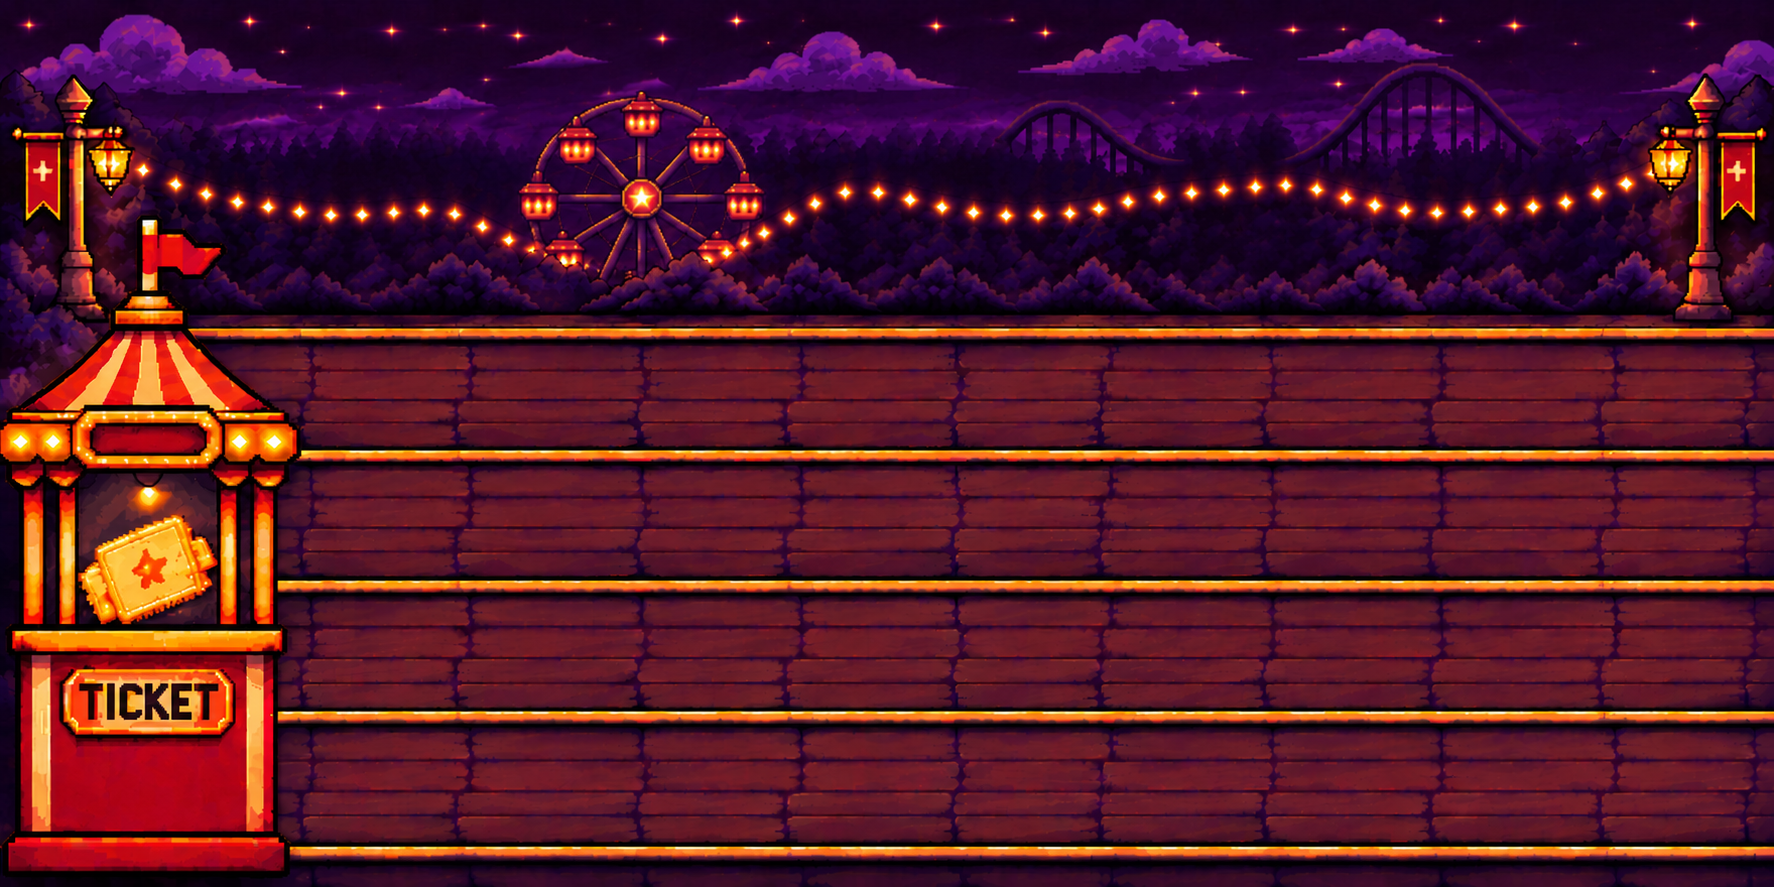
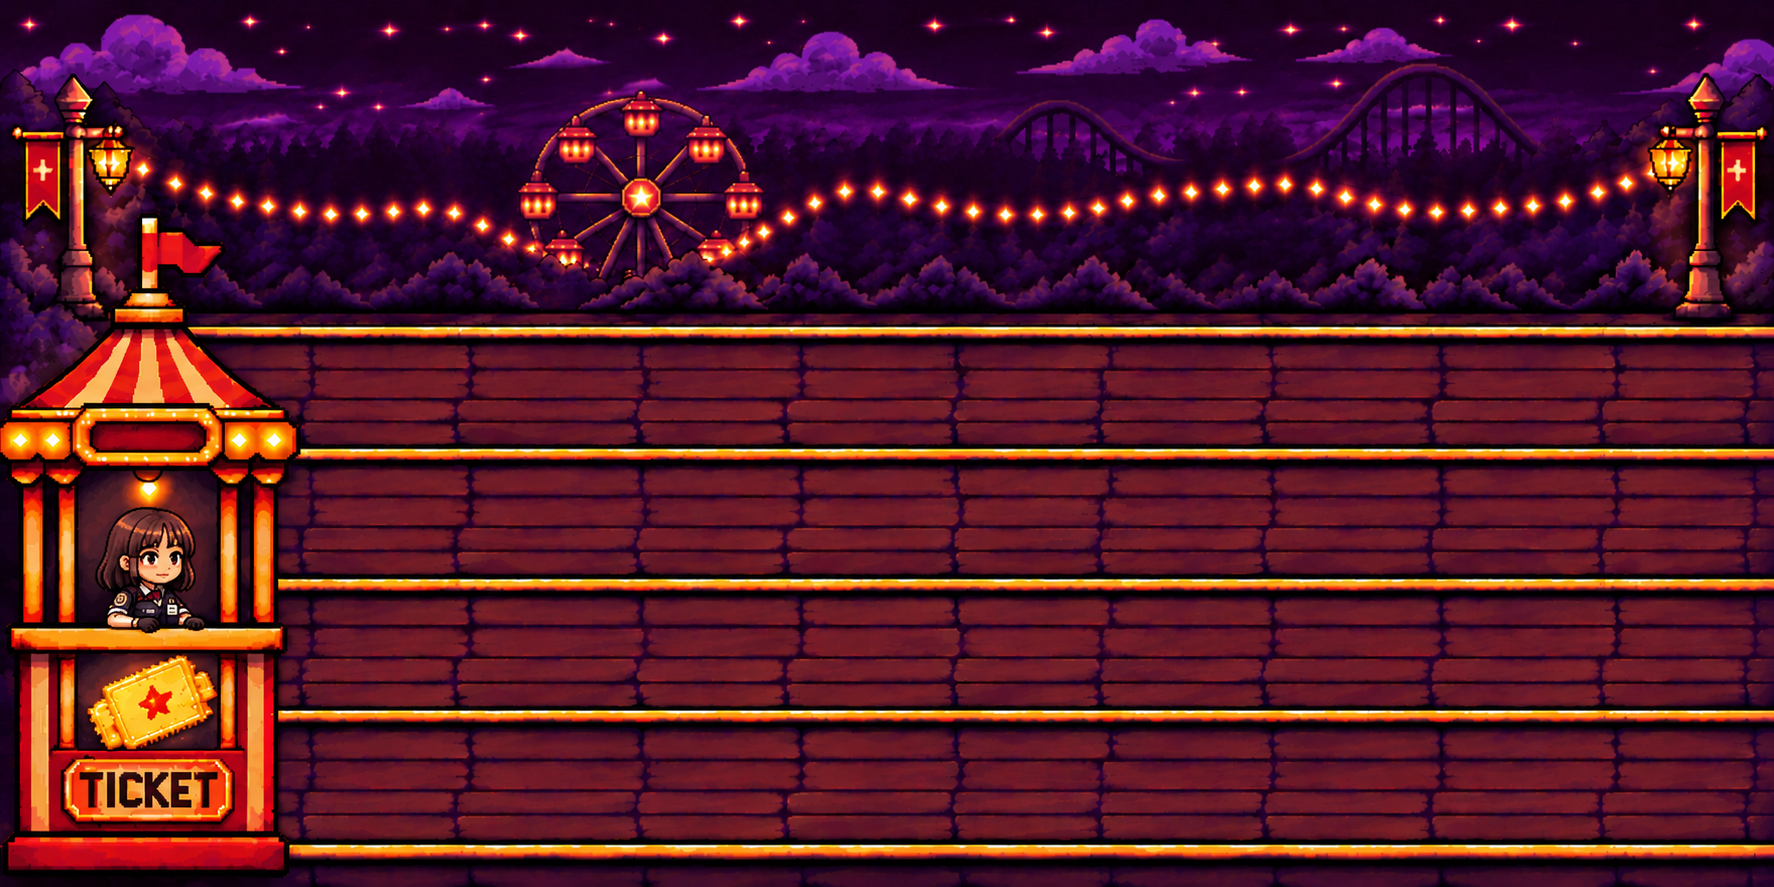
characters

diff --git a/src/characters/CharacterDraw.cpp b/src/characters/CharacterDraw.cpp
@@ -11,42 +11,102 @@ static unsigned int enemyAttackTexture [3]= {0};
 
 static unsigned int playerWalkTexture[3] = { 0 }; //unsigned bec el lload texture returns it
 static unsigned int playerAttackTexture[3] = { 0 };
+static unsigned int playerJumpTexture[2]={};
+static unsigned int playerDuckTexture[2]={};
+
+static unsigned int sparkTexture = 0;
+static unsigned int clownBallTexture = 0;
 
 void drawMirrorGuard(float x, float y, float time, AnimState state, float stateTime, float healthFrac) {
-   
-    unsigned int tex = (state == ATTACK) ? playerAttackTexture[MIRROR_GUARD] : playerWalkTexture[MIRROR_GUARD];
-    float t=(state==ATTACK)?stateTime:time;//time da 3ady
- if(tex==0){
-        drawRect(x, y + 40, 40, 80, 0, damageTint(PLACEHOLDER_GRAY, healthFrac));   // di el grey box test law el sooora bazet or smt
-        return;}
-        int frameCount = (int) (t*Walk_ANIMATION_SPEED) % 4; //i did el seconds le how many frmaes passed then make it int bas
-        float size=80.0f;
-        drawSprite(tex, frameCount, 4, x, y+size/2, size, size, 0.0f, damageTint(  WHITE, healthFrac),true);
+    unsigned int tex;
+    int frames;
+    int frame;
+    switch(state){
+        case ATTACK :{
+            tex = playerAttackTexture[MIRROR_GUARD];
+            frames = 8;
+            frame = (int)(stateTime * ATTACK_FRAMES_PER_SECOND) % 8;
+            break;
+        }
+        case JUMP :{
+            tex = playerJumpTexture[MIRROR_GUARD];
+            frames = 4;
+            frame = (int)(stateTime / JUMP_DURATION * 4);              // plays once over the jump
+            if (frame > 3) frame = 3;
+            break;
+        }
+        case DUCK :{
+            tex = playerDuckTexture[MIRROR_GUARD];
+            frames = 4;
+            frame = (int)(stateTime / DUCK_DURATION * 4);
+            if (frame > 3) frame = 3;
+            break;
+        }
 
-}
+        default :{
+            tex = playerWalkTexture[MIRROR_GUARD];
+            frames = 8;
+            frame = (int)(time * 8) % 8;
+            break;
+        }
+
+    }
+        float size = 140;
+        drawSprite(tex, frame, frames, x, y + size / 2, size, size, 0.0f,
+        damageTint(WHITE, healthFrac)); 
+    }
+
+
+
 void drawLanternGuard(float x, float y, float time, AnimState state, float stateTime, float healthFrac) {
-   
-    unsigned int tex = (state == ATTACK) ? playerAttackTexture[LANTERN_GUARD] : playerWalkTexture[LANTERN_GUARD];
-    float t=(state==ATTACK)?stateTime:time;//time da 3ady
- if(tex==0){
-        drawRect(x, y + 35, 40, 70, 0, damageTint(PLACEHOLDER_GRAY, healthFrac));   // TODO
-        return;}
-        int frameCount = (int) (t*Walk_ANIMATION_SPEED) % 4; //i did el seconds le how many frmaes passed then make it int bas
-        float size=110.0f;
-        drawSprite(tex, frameCount, 4, x, y+size/2, size, size, 0.0f, damageTint(  WHITE, healthFrac),true);
+    unsigned int tex;
+    int frames;
+    int frame;
+    switch(state){
+        case ATTACK: {
+            tex = playerAttackTexture[LANTERN_GUARD];
+            frames = 8;
+            frame = (int)(stateTime * ATTACK_FRAMES_PER_SECOND) % 8;
+            break;
+        }
+        case JUMP: {
+            tex = playerJumpTexture[LANTERN_GUARD];
+            frames = 4;
+            frame = (int)(stateTime / JUMP_DURATION * 4);              // plays once over the jump
+            if (frame > 3) frame = 3;
+            break;
+        }
+        case DUCK: {
+            tex = playerDuckTexture[LANTERN_GUARD];
+            frames = 4;
+            frame = (int)(stateTime / DUCK_DURATION * 4);
+            if (frame > 3) frame = 3;
+            break;
+        }
+        default: {
+            tex = playerWalkTexture[LANTERN_GUARD];
+            frames = 8;
+            frame = (int)(time * 8) % 8;
+            break;
+        }
+    }
+    float size = 140;
+    drawSprite(tex, frame, frames, x, y + size / 2, size, size, 0.0f,
+               damageTint(WHITE, healthFrac));
 }
 void drawDefenseGuard(float x, float y, float time, AnimState state, float stateTime, float healthFrac) {
-   
-    unsigned int tex = (state == ATTACK) ? playerAttackTexture[DEFENSE_GUARD] : playerWalkTexture[DEFENSE_GUARD];
-    float t=(state==ATTACK)?stateTime:time;//time da 3ady
- if(tex==0){
-        drawRect(x, y + 40, 40, 80, 0, damageTint(PLACEHOLDER_GRAY, healthFrac));   // di el grey box test law el sooora bazet or smt
-        return;}
-        int frameCount = (int) (t*Walk_ANIMATION_SPEED) % 4;
-        if(state == IDLE) frameCount = 0;//bec starts idle we stays
-        float size=110.0f;
-        drawSprite(tex, frameCount, 4, x, y+size/2, size, size, 0.0f, damageTint(  WHITE, healthFrac),true);
-
+    unsigned int tex;
+    int frame;
+    if (state == ATTACK) {
+        tex = playerAttackTexture[DEFENSE_GUARD];                     // jana_defend: bracing
+        frame = (int)(stateTime * ATTACK_FRAMES_PER_SECOND) % 8;
+    } else {
+        tex = playerWalkTexture[DEFENSE_GUARD];                       // standing, animated
+        frame = (int)(time * 8) % 8;                                  // loops forever
+    }
+    float size = 140;
+    drawSprite(tex, frame, 8, x, y + size / 2 , size, size, 0.0f,
+    damageTint(WHITE, healthFrac));
 }
 
 void drawGuard(float x, float y, PlayerType type, float time, AnimState state, float stateTime, float healthFrac) {
@@ -68,8 +128,18 @@ void drawEnemy(float x, float y, EnemyType type, float time, AnimState state, fl
 //Projectiles
 
 void drawLanternOrb(float x, float y, float hitProgress) { drawCircle(x, y, 8, GHOST_LIGHT); }   // TODO
-void drawCursedCard(float x, float y, float hitProgress) { drawRect(x, y, 12, 16, 0, WHITE); }   // TODO
-void drawJuggleBall(float x, float y, float hitProgress) { drawCircle(x, y, 8, CURSE_RED); }     // TODO
+void drawSpark(float x, float y, float time, float hitProgress){
+    int frame = (int)(time * 10) % 4;                     // twinkles, 10 frames per second
+    float size = 80.0f * (1.0f - hitProgress);           // shrinks to nothing on impact
+    glm::vec4 tint(1.0f, 1.0f, 1.0f, 1.0f - hitProgress); // and fades out
+    drawSprite(sparkTexture, frame, 4, x, y, size, size, 0.0f, tint);
+}
+void drawJuggleBall(float x, float y, float time, float hitProgress){
+    int frame = (int)(time * 12) % 4;                     // star turns as it rolls
+    float size = 64.0f * (1.0f - hitProgress);
+    glm::vec4 tint(1.0f, 1.0f, 1.0f, 1.0f - hitProgress);
+    drawSprite(clownBallTexture, frame, 4, x, y, size, size, 0.0f, tint);
+}
 
 
 //Collectibles
@@ -80,18 +150,24 @@ void drawToken(float x, float y, float time) { drawCircle(x, y, 10, TICKET_GOLD)
 //Enemies
 
 void initCharacterTexture() {
-    enemyWalkTexture[MAGICIAN] = loadTexture(ASSET_DIR "characters/magician_walk.png");
-    enemyWalkTexture[CLOWN] = loadTexture(ASSET_DIR "characters/clown_walk.png");//asset dir da 3ashan el path y work mesh 3andy bas
-    enemyWalkTexture[JESTER] = loadTexture(ASSET_DIR "characters/jester_walk.png");
-    enemyAttackTexture[MAGICIAN] = loadTexture(ASSET_DIR "characters/magician_attack.png");
-    enemyAttackTexture[CLOWN] = loadTexture(ASSET_DIR "characters/clown_attack.png");
-    enemyAttackTexture[JESTER] = loadTexture(ASSET_DIR "characters/jester_attack.png");
-    playerWalkTexture[MIRROR_GUARD] = loadTexture(ASSET_DIR "characters/mirror_walk.png");
-    playerWalkTexture[LANTERN_GUARD] = loadTexture(ASSET_DIR "characters/lantern_walk.png");
-    playerWalkTexture[DEFENSE_GUARD] = loadTexture(ASSET_DIR "characters/defense_walk.png");
-    playerAttackTexture[MIRROR_GUARD] = loadTexture(ASSET_DIR "characters/mirror_attack.png");
-    playerAttackTexture[LANTERN_GUARD] = loadTexture(ASSET_DIR "characters/lantern_attack.png");  
-    playerAttackTexture[DEFENSE_GUARD] = loadTexture(ASSET_DIR "characters/defense_defend.png");  
+    enemyWalkTexture[MAGICIAN] = loadTexture(ASSET_DIR "characters/magician_walking.png");
+    enemyWalkTexture[CLOWN] = loadTexture(ASSET_DIR "characters/clown_walking.png");//asset dir da 3ashan el path y work mesh 3andy bas
+    enemyWalkTexture[JESTER] = loadTexture(ASSET_DIR "characters/jester_walking.png");
+    enemyAttackTexture[MAGICIAN] = loadTexture(ASSET_DIR "characters/magician_standing.png");
+    enemyAttackTexture[CLOWN] = loadTexture(ASSET_DIR "characters/clown_standing.png");
+    enemyAttackTexture[JESTER] = loadTexture(ASSET_DIR "characters/jester_standing.png");
+    playerWalkTexture[MIRROR_GUARD] = loadTexture(ASSET_DIR "characters/seif_walk.png");
+    playerWalkTexture[LANTERN_GUARD] = loadTexture(ASSET_DIR "characters/lama_walk.png");
+    playerWalkTexture[DEFENSE_GUARD] = loadTexture(ASSET_DIR "characters/jana_walk.png");
+    playerAttackTexture[MIRROR_GUARD] = loadTexture(ASSET_DIR "characters/seif_attack.png");
+    playerAttackTexture[LANTERN_GUARD] = loadTexture(ASSET_DIR "characters/lama_attack.png");  
+    playerAttackTexture[DEFENSE_GUARD] = loadTexture(ASSET_DIR "characters/jana_defend.png");
+    playerJumpTexture[MIRROR_GUARD] = loadTexture(ASSET_DIR "characters/seif_jump.png"); 
+    playerJumpTexture[LANTERN_GUARD] = loadTexture(ASSET_DIR "characters/lama_jump.png"); 
+    playerDuckTexture[MIRROR_GUARD] = loadTexture(ASSET_DIR "characters/seif_duck.png"); 
+    playerDuckTexture[LANTERN_GUARD] = loadTexture(ASSET_DIR "characters/lama_duck.png"); 
+    sparkTexture = loadTexture(ASSET_DIR "characters/magician_spell.png");
+    clownBallTexture  = loadTexture(ASSET_DIR "characters/clown_ball.png");
 }
 
 void drawMagician(float x, float y, float time, AnimState state, float stateTime, float healthFrac) {
@@ -102,8 +178,8 @@ void drawMagician(float x, float y, float time, AnimState state, float stateTime
  if(tex==0){
         drawRect(x, y + 40, 40, 80, 0, damageTint(PLACEHOLDER_GRAY, healthFrac));   // di el grey box test law el sooora bazet or smt
         return;}
-        int frameCount = (int) (t*Walk_ANIMATION_SPEED) % 8; //i did el seconds le how many frmaes passed then make it int bas
-        float size=110.0f;
+        int frameCount = (int) (t*ENEMY_FRAMES_PER_SECOND) % 8; //i did el seconds le how many frmaes passed then make it int bas
+        float size=140.0f;
         drawSprite(tex, frameCount, 8, x, y+size/2, size, size, 0.0f, damageTint(  WHITE, healthFrac));
 
 
@@ -117,8 +193,8 @@ void drawClown(float x, float y, float time, AnimState state, float stateTime, f
     if(tex==0){
         drawRect(x, y + 40, 40, 80, 0, damageTint(PLACEHOLDER_GRAY, healthFrac));   // di el grey box test law el sooora bazet or smt
         return;}
-        int frameCount = (int) (t*Walk_ANIMATION_SPEED) % 8; //i did el seconds le how many frmaes passed then make it int bas
-        float size=110.0f;
+        int frameCount = (int) (t*ENEMY_FRAMES_PER_SECOND) % 8; //i did el seconds le how many frmaes passed then make it int bas
+        float size=140.0f;
         drawSprite(tex, frameCount, 8, x, y+size/2, size, size, 0.0f, damageTint(  WHITE, healthFrac));
 }
 void drawJester(float x, float y, float time, AnimState state, float stateTime, float healthFrac) {
@@ -127,8 +203,8 @@ void drawJester(float x, float y, float time, AnimState state, float stateTime, 
     if(tex==0){
         drawRect(x, y + 40, 40, 80, 0, damageTint(PLACEHOLDER_GRAY, healthFrac));   // di el grey box test law el sooora bazet or smt
         return;}
-        int frameCount = (int) (t*Walk_ANIMATION_SPEED*1.5) % 8; //i did el seconds le how many frmaes passed then make it int bas
-        float size=110.0f;
+        int frameCount = (int) (t*ENEMY_FRAMES_PER_SECOND) % 8; //i did el seconds le how many frmaes passed then make it int bas
+        float size=140.0f;
         drawSprite(tex, frameCount, 8, x, y+size/2, size, size, 0.0f, damageTint(  WHITE, healthFrac));
 }
 

diff --git a/src/game/Shots.cpp b/src/game/Shots.cpp
@@ -1,5 +1,53 @@
 // Shots.cpp. Owner: Person B
 #include "Shots.h"
 #include "Game.h"
+#include <cmath>
 
-void updateShots(float dt) { }
+static const float HIT_RANGE = 35;
+
+void updateShots(float dt) {
+    for(Projectile& p:shots){
+        if(p.alive){
+            if (p.hitting) {
+                p.hitTimer += dt;
+                if (p.hitTimer >= HIT_DURATION) p.alive = false;   // animation finished: remove it
+                continue;                                           // a hitting shot doesn't move or hit again
+            }
+            if(p.fromPlayer)
+                p.x = p.x +SPEED_PROJECTILE * dt;
+            else
+                p.x = p.x -SPEED_PROJECTILE * dt;
+
+            if(p.x<LANE_LEFT || p.x>SCREEN_W){
+                p.alive=false;
+                continue;
+            }
+            if (p.fromPlayer) {
+                for (Enemy& e : enemies) {
+                    if (!e.alive || e.lane != p.lane) continue;               // only living ones in this lane
+                    if (std::abs(e.x - p.x) <= HIT_RANGE) {                   // touching
+                        e.health -= DMG_PLAYER;
+                        p.hitting = true;                                     // start the hit animation
+                        p.hitTimer = 0.0f;
+                        break;                                                // one shot hits one target
+                    }
+                }
+            }
+            else {
+                for (Player& pl : players) {
+                    if (!pl.alive || pl.lane != p.lane) continue;
+                    if (std::abs(pl.x - p.x) > HIT_RANGE) continue;           // not touching yet
+
+                    // Dodging: the shot passes this guard
+                    if (p.height == HIGH && pl.state == DUCK) continue;       // spark flies over a ducking guard
+                    if (p.height == LOW  && pl.state == JUMP) continue;       // ball rolls under a jumping guard
+
+                    pl.health -= DMG_ENEMY;
+                    p.hitting = true;
+                    p.hitTimer = 0.0f;
+                    break;
+                }
+            }
+        }
+    }
+}

diff --git a/src/game/Game.cpp b/src/game/Game.cpp
@@ -14,6 +14,8 @@
 #include "Sound.h"
 #include "Background.h"
 #include "Environment.h"
+#include "Shots.h"
+
 
 std::vector<Player>     players;
 std::vector<Enemy>      enemies;
@@ -155,7 +157,7 @@ void updateGame(float dt) {
     //updateWaves(dt);
     moveEveryone(dt);
     updateCombat(dt);
-    //updateShots(dt);
+    updateShots(dt);
     updateEconomy(dt);
     checkWinLose();
     removeDead();
@@ -175,11 +177,26 @@ void drawGame() {
     }
     for (const Player& p : players) {
         drawGuard(p.x, laneFloorY(p.lane), p.type, gameTime, p.state, p.stateTimer, (float)p.health / p.maxHealth);
-        drawHealthBar(p.x, laneFloorY(p.lane) + 85, p.health, p.maxHealth); 
+        drawHealthBar(p.x, laneFloorY(p.lane) + 140, p.health, p.maxHealth); 
     }
     for (const Enemy& e : enemies) {
         drawEnemy(e.x, laneFloorY(e.lane), e.type, gameTime, e.state, e.stateTimer, (float)e.health / e.maxHealth);
-        drawHealthBar(e.x, laneFloorY(e.lane) + 85, e.health, e.maxHealth); 
+        drawHealthBar(e.x, laneFloorY(e.lane) + 140, e.health, e.maxHealth); 
+    }
+    for (const Projectile& s : shots) {
+    float floorY = laneFloorY(s.lane);   // the floor of the shot's lane
+        float progress = s.hitting ? s.hitTimer / HIT_DURATION : 0.0f;   // 0 = flying, 1 = finished
+    switch (s.type) {
+        case CURSED_CARD:   // Magician's spark: head height, so ducking dodges it
+            drawSpark(s.x, floorY + 140 * 0.6f, gameTime, progress);
+            break;
+        case JUGGLE_BALL:   // Clown's ball: on the floor, so jumping dodges it
+            drawJuggleBall(s.x, floorY + 12.0f, gameTime, progress);
+            break;
+        /*case LANTERN_ORB:   // Lama's stone: chest height
+            drawLanternOrb(s.x, floorY + 140 * 0.4f, progress);
+            break;*/
+    }
     }
     drawHUD(getCoins(), getCurrentWave());
 }

diff --git a/src/game/Combat.cpp b/src/game/Combat.cpp
@@ -54,12 +54,15 @@ void updateCombat(float dt) {
     for(Player &p: players){
         if(p.alive) {
             int enemyIndex = enemyInFront(p);
-            if(enemyIndex != -1 && p.state == WALK && p.type != DEFENSE_GUARD) {   //theres an enemy infront and the player is walking and not a defense guard
+            if(enemyIndex != -1 && (p.state == WALK || p.state == IDLE)) {   //theres an enemy infront and the player is walking and not a defense guard
                 p.state = ATTACK;
                 p.stateTimer = 0.0f;
             }
             if(enemyIndex == -1 && p.state == ATTACK) {  //theres no enemy infront and i was attacking but now theres no enemy infront so go back to walking
-                p.state = WALK;
+                if(p.type==DEFENSE_GUARD)
+                    p.state=IDLE;
+                else
+                    p.state=WALK;
                 p.stateTimer = 0.0f;
             }
             p.attackTimer -= dt;            

diff --git a/src/game/Config.h b/src/game/Config.h
@@ -23,6 +23,7 @@ const int COST_MELEE = 10;  // Mirror Guard
 const int COST_RANGED = 20;    // Lantern Guard 
 const int COST_DEFENSE = 30;   // Sentinel Guard
 const int COINS_PER_KILL = 10;
+const float HIT_DURATION = 0.2f;
 
 const int HP_MELEE = 5, HP_RANGED = 5, HP_DEFENSE = 7;
 const int HP_MAGICIAN = 5, HP_CLOWN = 5, HP_JESTER = 7;
@@ -43,6 +44,8 @@ const float ATTACK_COOLDOWN = 1.0f;
 const float JUMP_DURATION = 0.6f;
 const float DUCK_DURATION = 0.6f;
 const float Walk_ANIMATION_SPEED = 0.8f;   // time per frame for walk animation
+const float ENEMY_FRAMES_PER_SECOND = 5.0f; 
+const float ATTACK_FRAMES_PER_SECOND = 5.0f;
 
 const int WAVE_SIZES[3] = { 3, 5, 10 };
 const float SPAWN_INTERVAL = 4.0f;    // time between the enemies lama yetla3o

diff --git a/src/characters/CharacterDraw.h b/src/characters/CharacterDraw.h
@@ -20,9 +20,8 @@ void drawJester(float x, float y, float time, AnimState state, float stateTime, 
 
 // ---- Projectiles (hitProgress: 0 = flying, 0..1 = impact animation) ----
 void drawLanternOrb(float x, float y, float hitProgress);
-void drawCursedCard(float x, float y, float hitProgress);   // Magician, from above
-void drawJuggleBall(float x, float y, float hitProgress);   // Clown, along the ground
-
+void drawSpark(float x, float y, float time, float hitProgress);
+void drawJuggleBall(float x, float y, float time, float hitProgress);
 // ---- Misc ----
 void drawToken(float x, float y, float time);
 void drawHealthBar(float x, float y, int current, int max);

diff --git a/src/world/Environment.cpp b/src/world/Environment.cpp
@@ -10,7 +10,7 @@ static unsigned int backgroundTex4 = 0;
 static unsigned int backgroundTex5 = 0;
 
 void initEnvironment() {
-    backgroundTex1 = loadTexture(ASSET_DIR "background/balloon_booth.jpeg");
+    backgroundTex1 = loadTexture(ASSET_DIR "background/balloon_booth.png");
     backgroundTex2 = loadTexture(ASSET_DIR "background/circus_tent.png");
     backgroundTex3 = loadTexture(ASSET_DIR "background/Moon.png");
     backgroundTex4 = loadTexture(ASSET_DIR "background/popcorn_cart_with_flag.png");
